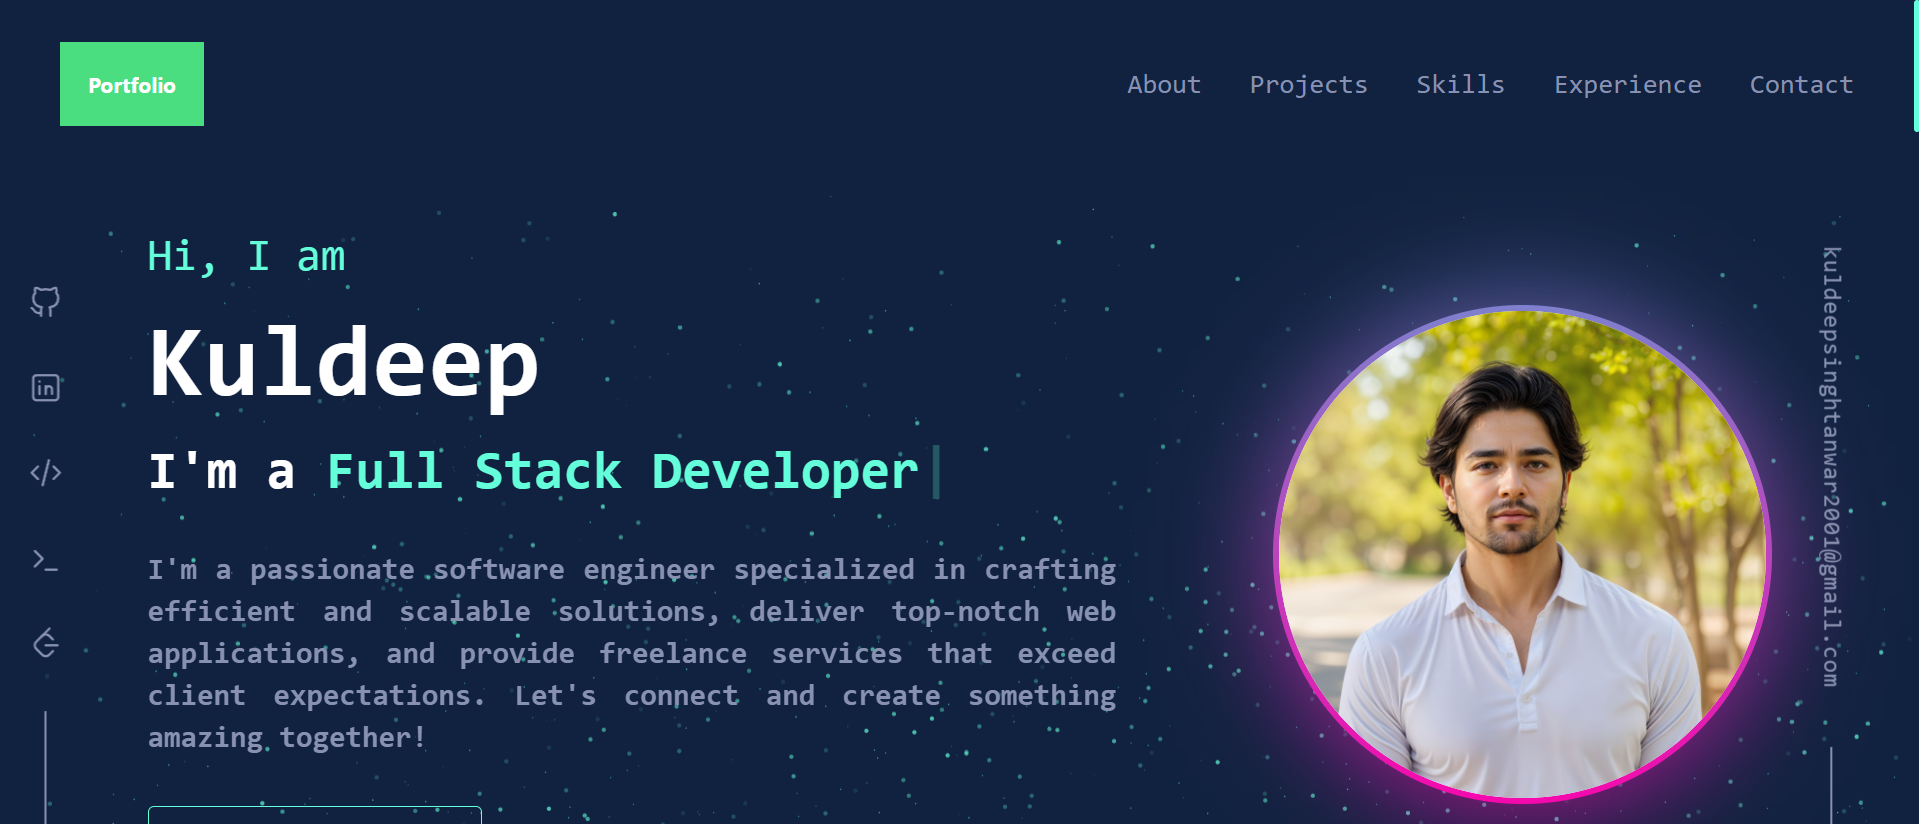
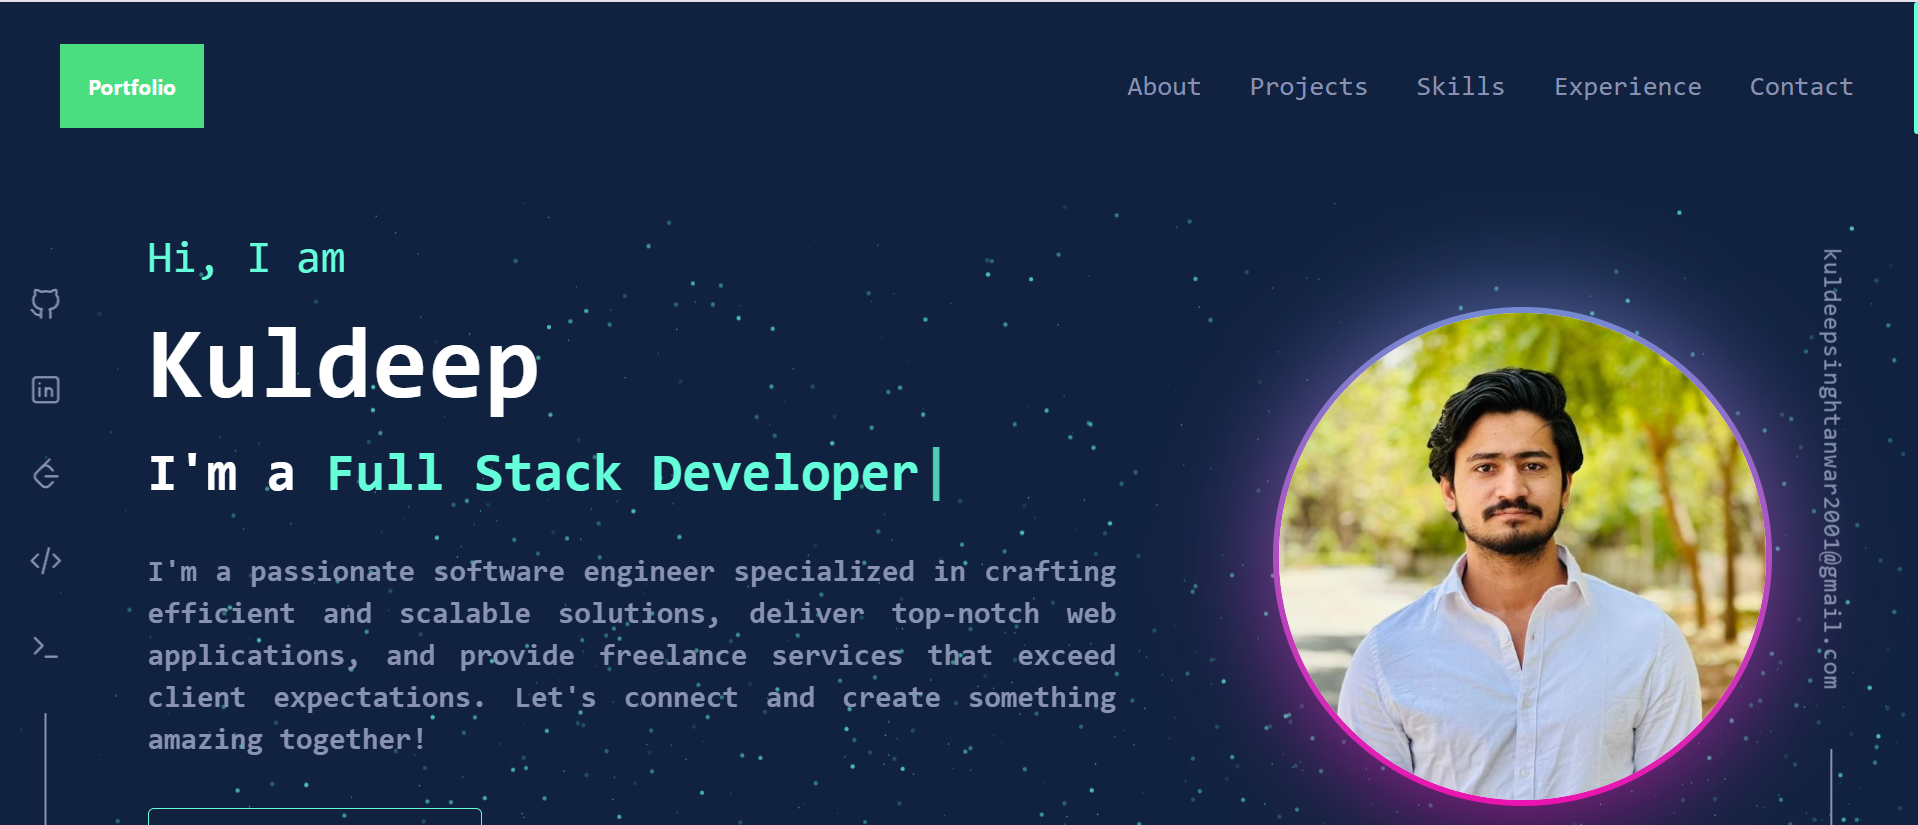
fourth commit

diff --git a/src/Components/About.tsx b/src/Components/About.tsx
@@ -39,7 +39,7 @@ const About = () => {
                 </div>
                 <div className="h-fit flex justify-center items-center rounded-full bs:mr-10 w-fit">
                     <NeonGradientCard className="w-[325px] h-[325px] lg-mx:w-64 lg-mx:h-64 xsm-mx:w-56 xsm-mx:h-56 items-center justify-center text-center">
-                        <img  src={`${process.env.PUBLIC_URL}/profile.jpg`} alt="profile" className="w-full  h-full rounded-full " />
+                        <img  src={`${process.env.PUBLIC_URL}/profile.jpeg`} alt="profile" className="w-full  h-full rounded-full " />
                         {/* <img src={`${process.env.PUBLIC_URL}/Ekart.png`} alt="Ekart" /> */}
                     </NeonGradientCard>
                 </div>

diff --git a/src/User.tsx b/src/User.tsx
@@ -32,7 +32,7 @@ const ProjectInfo = [
         image: "Portfolio.png",
         live: false,
         technologies: ["React", "Typescript", "Tailwind"],
-        link: "https://portfolio-kuldeeps-projects-3c7ed0c8.vercel.app/",
+        link: "https://portfolio-tau-brown-41.vercel.app/",
         github: "https://github.com/kuldeep1441/Portfolio.git"
     },
     // {
